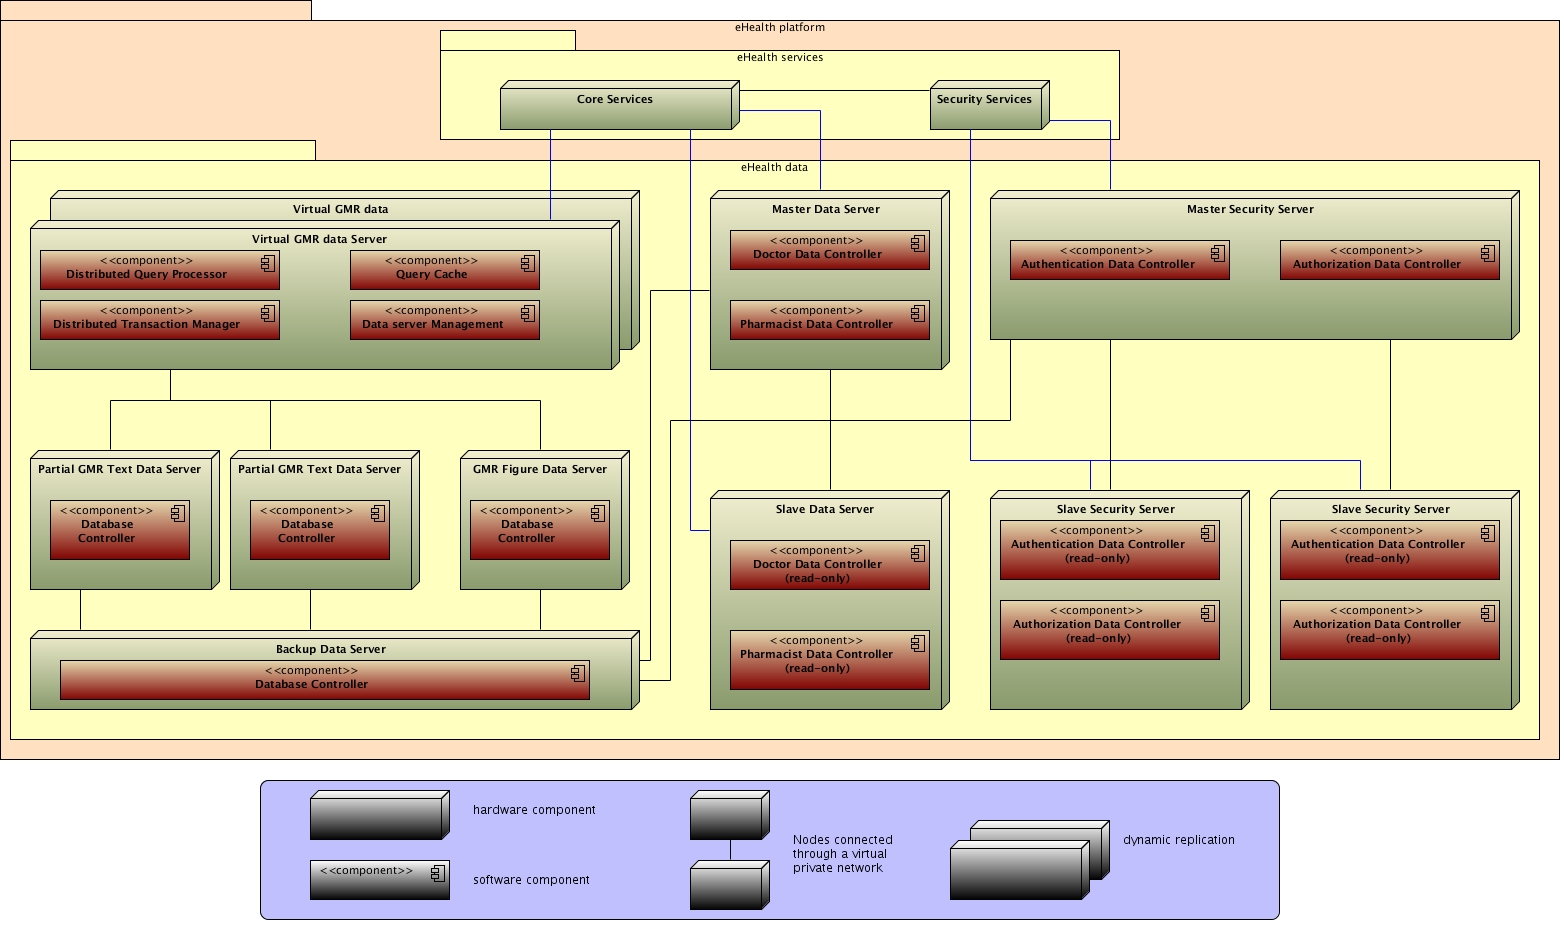
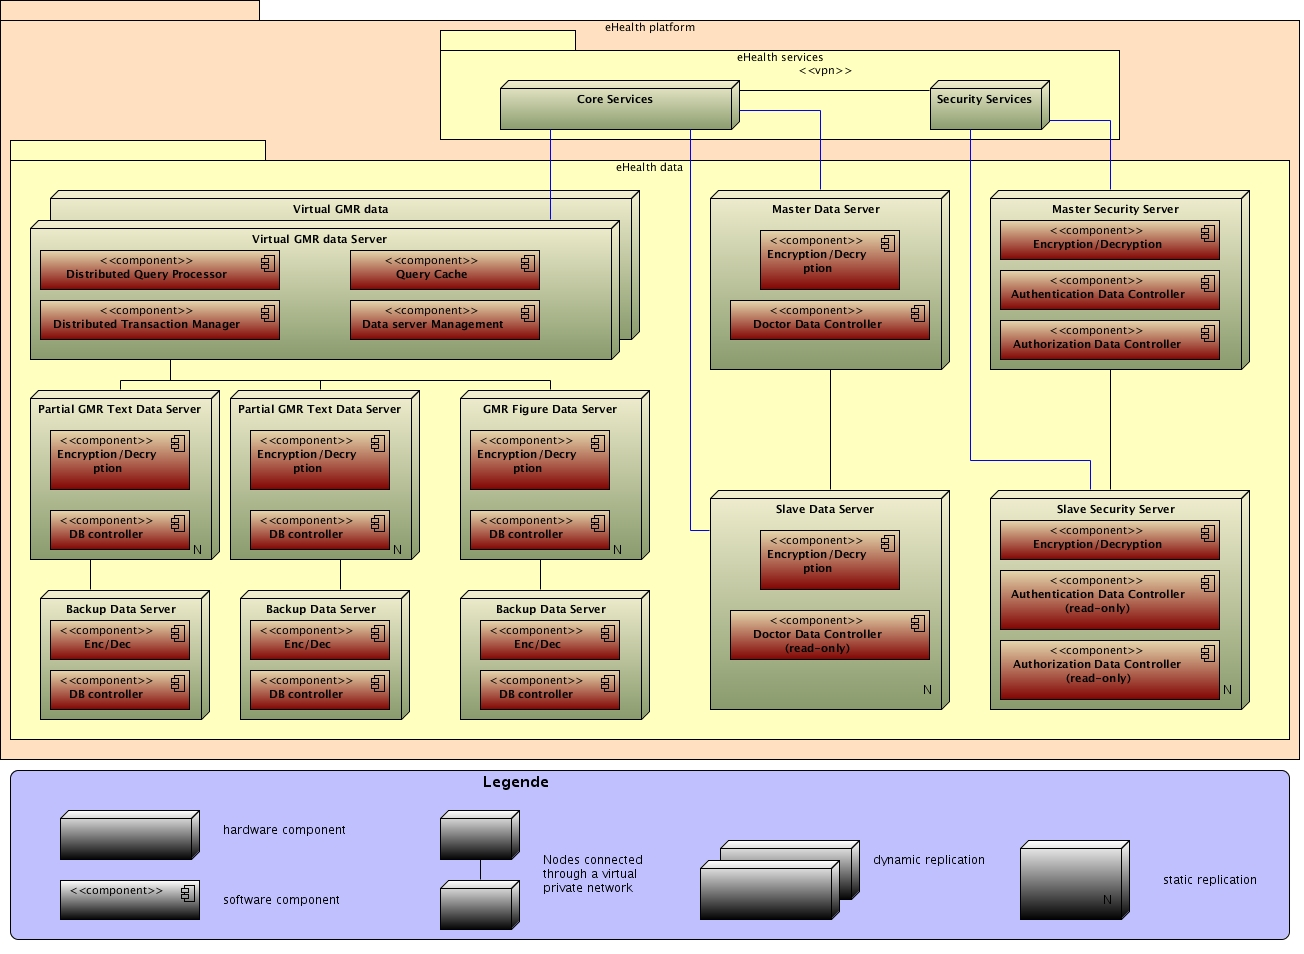
update deployment data

diff --git a/trunk/docs/project.tex b/trunk/docs/project.tex
@@ -579,17 +579,16 @@ zie Element behavior.
 \subsection{Related view packets}
 De security component is zowel in de client (\ref{Client and Server View: Client} Client and Server View: Client) als de server (\ref{Client and Server View: Server} Client and Server View: Server) component te zien.
 
-
 \clearpage
 \section{Deployment view DMZ}
-\label{sec:deploymentView:DMZ}
 
 \subsection{Primary presentation}
-
-\begin{figure}[!h]
-  \includegraphics[width=\textwidth]{../images/deployment_DMZ.jpg}
-    \caption{deployment diagram giving a high-level overview of the system}
-\end{figure}
+ \begin{center}
+    \begin{figure}[!h]
+      \includegraphics[width=\textwidth]{../images/deployment_DMZ.jpg}
+	\caption{deployment diagram giving a high-level overview of the system}
+    \end{figure}
+ \end{center}
 
 \subsection{Element catalog}
 
@@ -636,13 +635,15 @@ De interfaces van de verschillende componenten in de nodes staan beschreven in d
 
 Niet van toepassing
 
+\clearpage
 \subsection{Context diagram}
 
-
-\begin{figure}[!h]
-  \includegraphics[width=\textwidth]{../images/deployment_DMZ_context.jpg}
-    \caption{Context diagram for the deployment diagram giving a high-level overview of the system}
-\end{figure}
+\begin{center}
+    \begin{figure}[!h]
+      \includegraphics[width=\textwidth]{../images/deployment_DMZ_context.jpg}
+	\caption{Context diagram for the deployment diagram giving a high-level overview of the system}
+    \end{figure}
+ \end{center}
 
 \subsection{Variability guide}
 
@@ -664,11 +665,12 @@ De verschillende delen in deze view worden nog verder uitgewerkt in aparte secti
 \label{sec:deployment_clients}
 
 \subsection{Primary presentation}
-
-\begin{figure}[!h]
-  \includegraphics[width=\textwidth]{../images/deployment_clients.jpg}
-    \caption{Deployment diagram focused on the various clients in the system}
-\end{figure}
+\begin{center}
+    \begin{figure}[!h]
+      \includegraphics[width=\textwidth]{../images/deployment_clients.jpg}
+	\caption{Deployment diagram focused on the various clients in the system}
+    \end{figure}
+  \end{center}
 
 \subsection{Element catalog}
 
@@ -733,10 +735,12 @@ niet van toepassing
 
 \subsection{Context diagram}
 
-\begin{figure}[!h]
-  \includegraphics[width=\textwidth]{../images/deployment_clients_context.jpg}
-    \caption{Context diagram for de deployment view focused on the clients}
-\end{figure}
+\begin{center}
+    \begin{figure}[!h]
+      \includegraphics[width=\textwidth]{../images/deployment_clients_context.jpg}
+	\caption{Context diagram for de deployment view focused on the clients}
+    \end{figure}
+  \end{center}
 
 \subsection{Variability guide}
 
@@ -754,11 +758,12 @@ Via het internet maken alle clients verbinding met het eHealth platform, dit ged
 \label{sec:deployment_services}
 
 \subsection{Primary presentation}
-
-\begin{figure}[!h]
-  \includegraphics[width=\textwidth]{../images/deployment_services.jpg}
-    \caption{Deployment diagram focused on the services in the platform}
-\end{figure}
+\begin{center}
+    \begin{figure}[!h]
+      \includegraphics[width=\textwidth]{../images/deployment_services.jpg}
+	\caption{Deployment diagram focused on the services in the platform}
+    \end{figure}
+  \end{center}
 
 \subsection{Element catalog}
 
@@ -809,13 +814,13 @@ Component die alle functionaliteit aanbiedt voor het lezen, schrijven en aanpass
 Beheert alle data gerelateerd met dokters. Registratie van dokters en de registratie van patiënten van dokters gebeurt aan de hand van deze component.
 \item \textbf{VDS}\\*
 Dit stuk software zal alle functionaliteit aanbieden om data te kunnen ophalen van de \textit{validated data sources}, alsook functionaliteit voor het toevoegen van validated data sources aan het systeem. Wanneer zo'n gegevensbron toegevoegd dient te worden, zal die gegevensbron aangeboden moeten worden met een interface die vastgelegd wordt door ons systeem. \textbf{TODO : nog meer over die interface zeggen?}
-%TODO
 \item \textbf{ExternalActions}\\*
 Component die de link met de \textit{Governmental Services} voorziet (loggen en RIZIV).
-\item \textbf{Prescriptions}\\*
 \end{enumerate}
+
 \item \textbf{Service Management \textit{(Spare)}}\\*
 Deze node zal verantwoordelijk zijn voor het beheren van de verschillende services in het systeem. Zoals je kan zien op het diagram worden de security services en de core services beiden apart dynamisch gerepliceerd. Dit houdt in dat het aantal actieve processen gedediceerd voor deze twee onderdelen afhankelijk zal zijn van de belasting van het systeem. Deze node controleert dit alles. Het bevat twee aparte componenten, 1 voor de security services en 1 voor de core services. De node zal ook verantwoordelijk zijn voor het registreren en het deregistreren van de verschillende security services processen aan de \textit{Public Services Proxies} zodat deze weten welke er beschikbaar zijn.
+
 \end{enumerate}
 
 
@@ -823,7 +828,7 @@ Deze node zal verantwoordelijk zijn voor het beheren van de verschillende servic
 Zie sectie \ref{subsubsec:relations_deployment} voor meer info over de verschillende connecties tussen de nodes.
 
 \subsubsection{Element interfaces}
-[None]
+Niet van toepassing.
 
 \subsubsection{Element behavior}
 Wanneer een request gemaakt wordt naar het platform, zal deze via de \textit{Public Services Proxy} moeten. Deze zal moeten beslissen naar welke van de actieve \textit{Security Services} servers de request doorgestuurd zal worden. Zoals eerder vermeld zal dit voor een bepaalde sessie steeds dezelfde moeten zijn om authenticatie bij te kunnen houden. Dus als de \textit{Public Services Proxy} een request krijgt van een sessie die reeds in het \textit{Distributed Session Management} geregistreerd staat, moet er geen keuze gemaakt worden. Wanneer een request binnenkomt die nog niet geregistreerd is, zal de \textit{Public Services Proxy} een korte ping-boodschap sturen naar de 3 \textit{Security Services} servers die het minst in het \textit{Distributed Session Management} gekoppeld zijn aan een sessie. De eerste die hierop antwoord zal dan gekozen worden om de request naar door te sturen.
@@ -831,12 +836,14 @@ Wanneer een request gemaakt wordt naar het platform, zal deze via de \textit{Pub
 De \textit{Public Services Proxy} moet natuurlijk ook weten welke \textit{Security Services} servers er beschikbaar zijn. Hiervoor is de \textit{Service Management} server verantwoordelijk. Deze zal aan de hand van een ping-echo techniek elk van de \textit{Security Services} servers controleren. Wanneer 1 van die servers niet meer antwoord, betekent dit dat die node faalt en zal dit doorgegeven worden aan de \textit{Public Services Proxies}. In de ping-echo boodschap zullen de \textit{Security Services} servers ook hun huidige load aangeven. Wanneer de \textit{Service Management} server merkt dat alle servers zwaar geladen zijn.zal deze beslissen om een nieuwe op te starten. Dit zal dan ook doorgegeven worden aan de \textit{Public Services Proxies}.
 
 Dit zelfde systeem wordt gebruikt voor de connectie tussen de \textit{Security Services} servers en de \textit{Core Services} servers. Een \textit{Security Services} zal eerst naar 3 verschillende \textit{Core Services} servers een korte ping-boodschap sturen en vervolgens diegene die het snelst antwoord kiezen om verder mee te werken. De \textit{Service Management} server zal er nu ook weer voor zorgen dat de \textit{Security Services} servers weten met welke \textit{Core Services} servers ze kunnen connecteren en deze laatste ook monitoren en dynamisch toevoegen indien nodig.
-\subsection{Context diagram}
 
-\begin{figure}[!h]
-  \includegraphics[width=\textwidth]{../images/deployment_services_context.jpg}
-    \caption{Context diagram for the deployment diagram focused on the services in the platform}
-\end{figure}
+\subsection{Context diagram}
+\begin{center}
+    \begin{figure}[!h]
+      \includegraphics[scale=0.50, width=\textwidth]{../images/deployment_services_context.jpg}
+	\caption{Context diagram for the deployment diagram focused on the services in the platform}
+    \end{figure}
+  \end{center}
 
 \subsection{Variability guide}
 
@@ -845,16 +852,16 @@ Dit zelfde systeem wordt gebruikt voor de connectie tussen de \textit{Security S
 Omwille van de zware beschikbaarheids vereisten - maximum 2 minuten downtime per jaar - hebben we alle nodes gedupliceerd, zodat er zeker niet één \textit{single point of failure} in het systeem zit. In het gedeelte bescreven in deze sectie worden 3 verschillende replicatie-technieken gebruikt. De \textit{Public Services Proxy} servers worden statisch gerepliceerd. Dit betekent dat het aantal servers niet door het systeem zelf zal gewijzigd worden. Natuurlijk kunnen er wel manueel nieuwe servers toegevoegd worden.
 
 De replicatie-techniek gebruikt voor voor de \textit{Security Management} servers is een \textit{spare}. De gewone server zal er tijdens het lopen voor zorgen dat de staat van de reserve steeds in real-time mee ge-update wordt. Dit zal gebeuren op een regelmatig (kort) interval. Wanneer de reserve een aantal van die updates mist, neemt deze aan dat de primaire \textit{Security Management} server gefaald heeft en zal die voortaan de functies van de primaire overnemen.
-	
+
 Ten slotte wordt er ook gebruik gemaakt van dynamische replicatie voor zowel de \textit{Security Services} als de \textit{Core Services}. Dit zorgt voor een goede schaalbaarheid van het systeem aangezien het systeem zich zal aanpassen aan de load.
 
 Performantie is natuurlijk ook belangrijk. Bepaalde gegevens moeten binnen bepaalde tijdspannes beschikbaar zijn. Daarom gebruiken we de methode hierboven beschreven om van de \textit{Public Services Proxies} naar de \textit{Security Services} en van de \textit{Security Services} naar de \textit{Core Services} te gaan. We zullen telkens eerst een korte ping-boodschap sturen naar minstens 3 nodes en op basis van de antwoorden op deze ping een keuze maken. Dit doen we om ervoor te zorgen dat we niet te veel tijd verspillen met het wachten op een timeout met een falende component. Ook is dit een primitieve vorm van dynamisch loadbalancing, het antwoord dat het eerst terugkomt zal gewoon de snelste (en dus waarschijnlijk minst belaste) route volgen.
 
 \subsection{Other information}
+
 Het aantal \textit{Public Services Proxies} moet nog bepaald worden. Hiervoor zal eerst onderzoek gedaan moeten worden naar de verwachte load van het systeem en moeten we weten welke systemen we beschikbaar hebben.
 
 \subsection{Related view packets}
-
 
 
 \clearpage
@@ -862,43 +869,103 @@ Het aantal \textit{Public Services Proxies} moet nog bepaald worden. Hiervoor za
 \label{sec:deployment_data}
 
 \subsection{Primary presentation}
-
-\begin{figure}[!h]
-  \includegraphics[width=\textwidth]{../images/deployment_data.jpg}
-    \caption{Deployment diagram focused on the data storage in the platform}
-\end{figure}
+\begin{center}
+    \begin{figure}[!h]
+      \includegraphics[width=\textwidth]{../images/deployment_data.jpg}
+	\caption{Deployment diagram focused on the data storage in the platform}
+    \end{figure}
+  \end{center}
 
 \subsection{Element catalog}
 
 \subsubsection{Elements and their properties}
+\begin{enumerate}
+ \item \textbf{Core Services}\\*
+Node die alle kern services van het systeem bundelt. Meer info vind je in sectie \ref{sec:deployment_services}.
+\item \textbf{Security Service}\\*
+Node die alle security services van het systeem bundelt. Meer info vind je in sectie \ref{sec:deployment_services}.
+\item \textbf{Virtual GMR Data Server}\\*
+Deze server zal alle GMR data als een coherent geheel beschikbaar stellen. Aangezien volgens de wetgeving niet alle data van één enkel GMR op 1 plaats opgeslagen mag worden, hebben we deze node nodig die de nodige delen van een opgevraagd GMR zal ophalen op de aparte data servers. Deze node zal dynamisch gerepliceerd worden volgens de load, net zoals de \textit{Security Services} en de \textit{Core Services} in de services laag. Volgende componenten zitten in deze node : 
+\begin{enumerate}
+ \item \textbf{Distributed Query Processor}\\*
+Deze component zal ervoor zorgen dat queries voor GMR data correct opgesplitst zullen worden in aparte queries voor de aparte data servers. Het laat die aparte queries hun werk doen en zal achteraf alle verkregen dat terug bijeenzetten tot een geheel dat dan als antwoord dient op de orginele query.
+\item \textbf{Distributed Transaction Manager}\\*
+Dit stuk software is verantwoordelijk voor de consistentie van de GMR data. Wanneer er een query uitgevoerd moet worden die gegevens update of wegschrijft, zal deze component er verantwoordelijk voor zijn dat alle subqueries uitgevoerd worden. Indien er 1 van de subqueries faalt, zullen de andere subqueries ongedaan gemaakt worden door dit element.
+\item \textbf{Query Cache}\\*
+Dit element zal tijdelijk de laatste queries die uitgevoerd zijn op de GMR data bijhouden, dit zal nodig zijn voor eventuele herstellingsoperaties bij het falen van 1 van de data servers zoals uitgelegd in sectie \ref{subsubsec:dep_data_behavior}.
+\item \textbf{Data Server Management}\\*
+Dit element biedt functionaliteit om de aparte data servers te beheren.
+\end{enumerate}
+
+\item \textbf{Partial GMR Text Data Server}\\*
+Deze server zal tekstuele GMR data bevatten. Het zal niet alle data van 1 GMR bevatten, maar slechts gedeeltes van die date, aangezien dit bij wet voorgeschreven wordt. Deze servers zullen statisch gerepliceerd worden. De node bevat volgende software componenten : 
+\begin{enumerate}
+ \item \textbf{Encryption/Decryption}\\*
+Alle data op deze node dient geëncypteerd opgeslagen worden.Deze component zorgt daarvoor en zorgt er ook voor dat wanneer er data opgevraagd wordt, deze data ontcijferd wordt.
+\item \textbf{DB Controller}\\*
+Algemene database controller die de eigenlijke data access verzorgt.
+\end{enumerate}
+
+\item \textbf{GMR Figure Data Server}\\*
+Net hetzelfde als de \textit{Partial GMR Text Data Server}, behalve het soort van data dat erin opgeslagen wordt is anders.
+
+\item \textbf{Backup Data Server}\\*
+Deze servers zijn backups van de data servers waarmee ze verbonden zijn.
+
+\item \textbf{Master Data Server}\\*
+\label{masdatserv}
+Deze node zal data bijhouden die geen deel is van GMR data, namelijk data over dokters en welke patienten bij welke dokter horen. Deze node is statisch gerepliceerd door middel van een master-slave communicatie. Deze node is de master, wat wil zeggen dat op deze node geschreven en gelezen kan worden. De andere nodes zijn slaves, wat wil zeggen dat daar enkel van gelezen kan worden. Merk op dat hoewel er maar 1 slave node getoond wordt, er meerdere mogelijk zijn. Deze nodes hebben, net zoals de \textit{Partial GMR Text Data Servers}, hun eigen private sleutel waarmee alle data op die node geëncrypteerd en gedecrypteerd kan worden.
+\item \textbf{Slave Data Server}\\*
+Zie item \ref{masdatserv}.
+
+\item \textbf{Master Security Server}\\*
+\label{massecserv}
+Deze node zal alle security gerelateerde data bijhouden (authenticatie en authorisatie data). Ook deze node wordt gerepliceerd door middel van een master-slave configuratie en wordt beveiligd door een eigen private sleutel om data mee te versleutelen, net zoals bij de \textit{Master Data Server}.
+\item \textbf{Slave Security Server}\\*
+zie item \ref{massecserv}.
+
+
+\end{enumerate}
 
 \subsubsection{Relations and their properties}
+Zie sectie \ref{subsubsec:relations_deployment} voor een uitleg over de types van connecties.
 
 \subsubsection{Element interfaces}
+Niet van toepassing.
 
 \subsubsection{Element behavior}
+\label{subsubsec:dep_data_behavior}
+Als er vanuit de \textit{Core Services} data opgevraagd moet worden, zal weer hetzelfde mechanisme in werking treden als bij de communicatie tussen de \textit{Public Services Proxies} en de \textit{Security Services} beschreven in sectie \ref{subsec:arch_back_dep_serv}. Er zal eerst een ping bericht gestuurd worden naar minstens 3 virtuele servers en diegene die het snelst antwoord zal gekozen worden om verder mee te werken.
 
+Wanneer een virtuele data server een query krijgt voor GMR data, zal deze die query opsplitsen in subqueries die de verschillende delen van de data zal ophalen van de verschillende data servers die elk partiële data bevatten. Daarna worden die subqueries uitgevoerd op de correcte data server en de resultaten worden samengegoten tot 1 geheel dat als antwoord dient voor de originele query. Elke query zal door de virtuele data server ook gecached worden. Indien de query data update of toevoegt, zal de \textit{Distributed Session Manager} ervoor zorgen dat de volledige operatie uitgevoerd wordt, of indien dit niet lukt, de query helemaal geen invloed gehad heeft op de data.
+
+Alle data servers hebben hun eigen private sleutel. Wanneer data toegevoegd wordt, zal die data met die sleutel geëncrypteerd worden vooraleer die opgeslagen wordt. Wanneer er dan data opgevraagd wordt, zal met diezelfde sleutel de data gedecrypteerd worden. Deze data mag echter niet ongeëncrypteerd verstuurd worden, dus moet elke request voor data een andere sleutel meegeven waarmee de data eerst geëncrypteerd zal worden alvorens die doorgestuurd wordt.
+
+De GMR data servers hebben elk een backup data server. Op geregelde tijdstippen worden die backups gesynchroniseerd met de data op de servers. Dit wordt geregeld door de \textit{DB Controller} component. Indien 1 van deze GMR data servers zou falen, dan zal de backup-server dit merken doordat er geen synchronisaties meer plaatsvinden. Indien dit het geval is, spreekt de backup de virtuele data servers aan en vraagt alle relevante queries op die uitgevoerd zijn sinds de laatste synchronisatie van de backup. De backup update zijn gegevens en zal vanaf dan dienst doen als GMR data server.
+
+\clearpage
 \subsection{Context diagram}
-
-\begin{figure}[!h]
-  \includegraphics[scale=0.75]{../images/deployment_data_context.jpg}
-    \caption{Context diagram for the deployment diagram focused on the data storage in the platform}
-\end{figure}
+\begin{center}
+    \begin{figure}[!h]
+      \includegraphics[scale=0.50]{../images/deployment_data_context.jpg}
+	\caption{Context diagram for the deployment diagram focused on the data storage in the platform}
+    \end{figure}
+  \end{center}
 
 \subsection{Variability guide}
+Op het diagram, wordt 1 GMR nu opgedeeld in drie stukken : 2 tekstuele stukken en 1 stuk voor andere data (zoals bijv. figuren). Dit kan eventueel nog gewijzigd worden, afhankelijk van de exacte wettelijke voorschriften over de scheiden van de data. Het functioneren van het systeem zal hierdoor niet wijzigen.
 
 \subsection{Architecture background}
+Het is bij wet verplicht om de data voor een bepaald GMR verspreid bij te houden, vandaar dat het mechanisme met de virtuele data servers in het systeem geplaatst wordt. Door een data server management component te voorzien in de virtuele data servers, wordt het mogelijk om het aantal servers uit te breiden indien dit nodig moest zijn, wat de variabiliteit van het systeem bevordert. Het verspreiden van de data is ook zeer gunstig vanuit een security standpunt. Moest het zijn dat een aanvaller de disk op 1 van de servers kan kopiëren, zal deze nog steeds niet zijn met de data die hij ervan af gehaald heeft. Ook wordt de data geëncrypteerd, wat de data nog nuttelozer maakt voor een aanvaller.
 
-\subsubsection{Rationale}
+Om aan de beschikbaarheids-vereisten te voldoen, wordt er gebruik gemaakt van replicatie. Voor de doktor data en de security data wordt dit gedaan aan de hand van een master-slave configuratie. Hierdoor wordt de load van het systeem verspreid over de master en de vershillende slaves om zo ook aan de performantie-vereisten te kunnen voldoen. Aangezien er slechts 1 master is, zou dit een bottleneck kunnen zijn, maar aangezien de doktor en security data waarschijnlijk niet vaak aangepast zullen worden, zal dit geen problemen geven.
+Voor de GMR data zou dit wel een performantie bottleneck zijn aangezien deze data veel frequenter aangepast wordt. Daarom voorzien we hier een ander mechanisme. De partiële data servers worden statisch gerepliceerd, zonder hier een master in aan te duiden, er mag naar alle replica's geschreven worden. Wanneer deze servers met elkaar synchroniseren, zal er bij conflicten een merging-techniek gebruikt worden zoals beschreven in sectie \textbf{TODO}.
 
-\subsubsection{Analysis results}
-
-\subsubsection{Assumptions}
+De performantie-vereisten voor het ophalen van tekstuele data en andere data verschillen nogal wat. Om ervoor te zorgen dat het ophalen van tekst nooit moet wachten op het ophalen van figuren, worden tekst en figuren volledig van elkaar gescheiden.
 
 \subsection{Other information}
 
 \subsection{Related view packets}
-
 
 
 \clearpage
